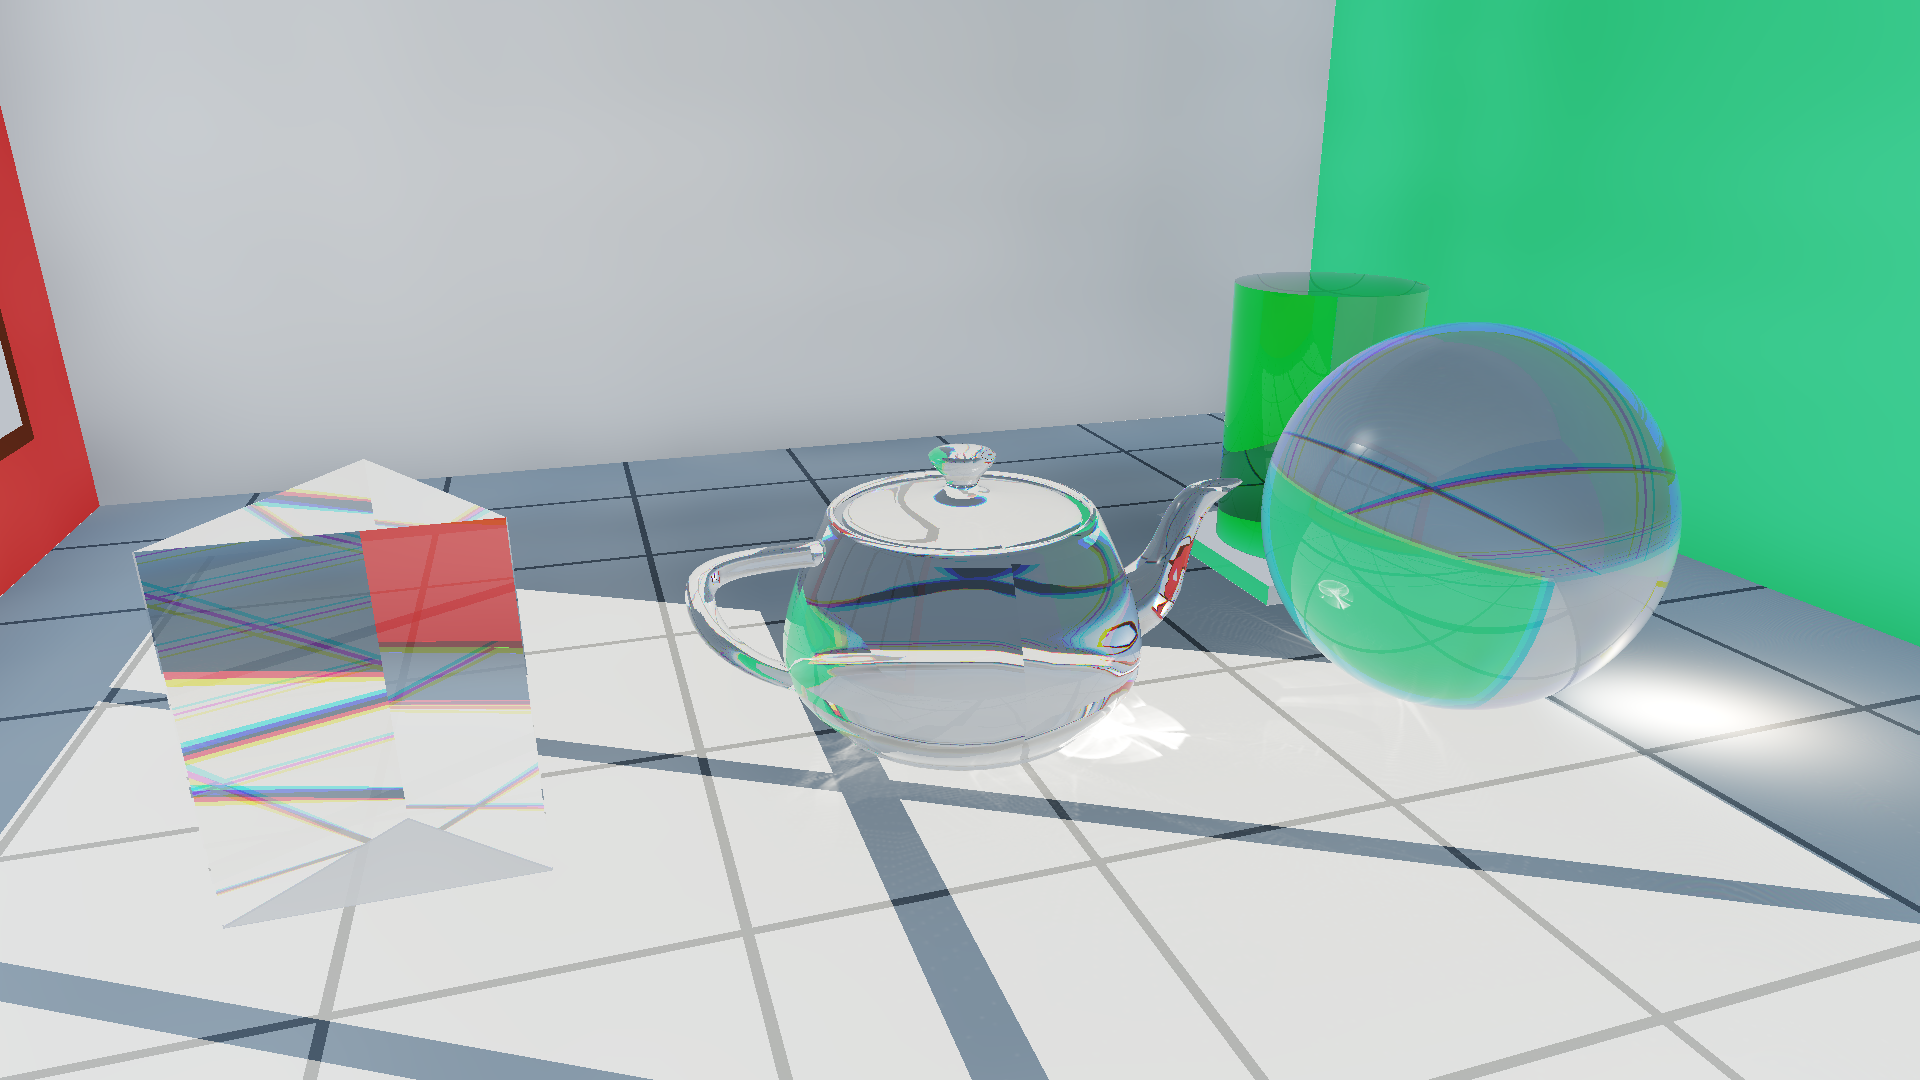
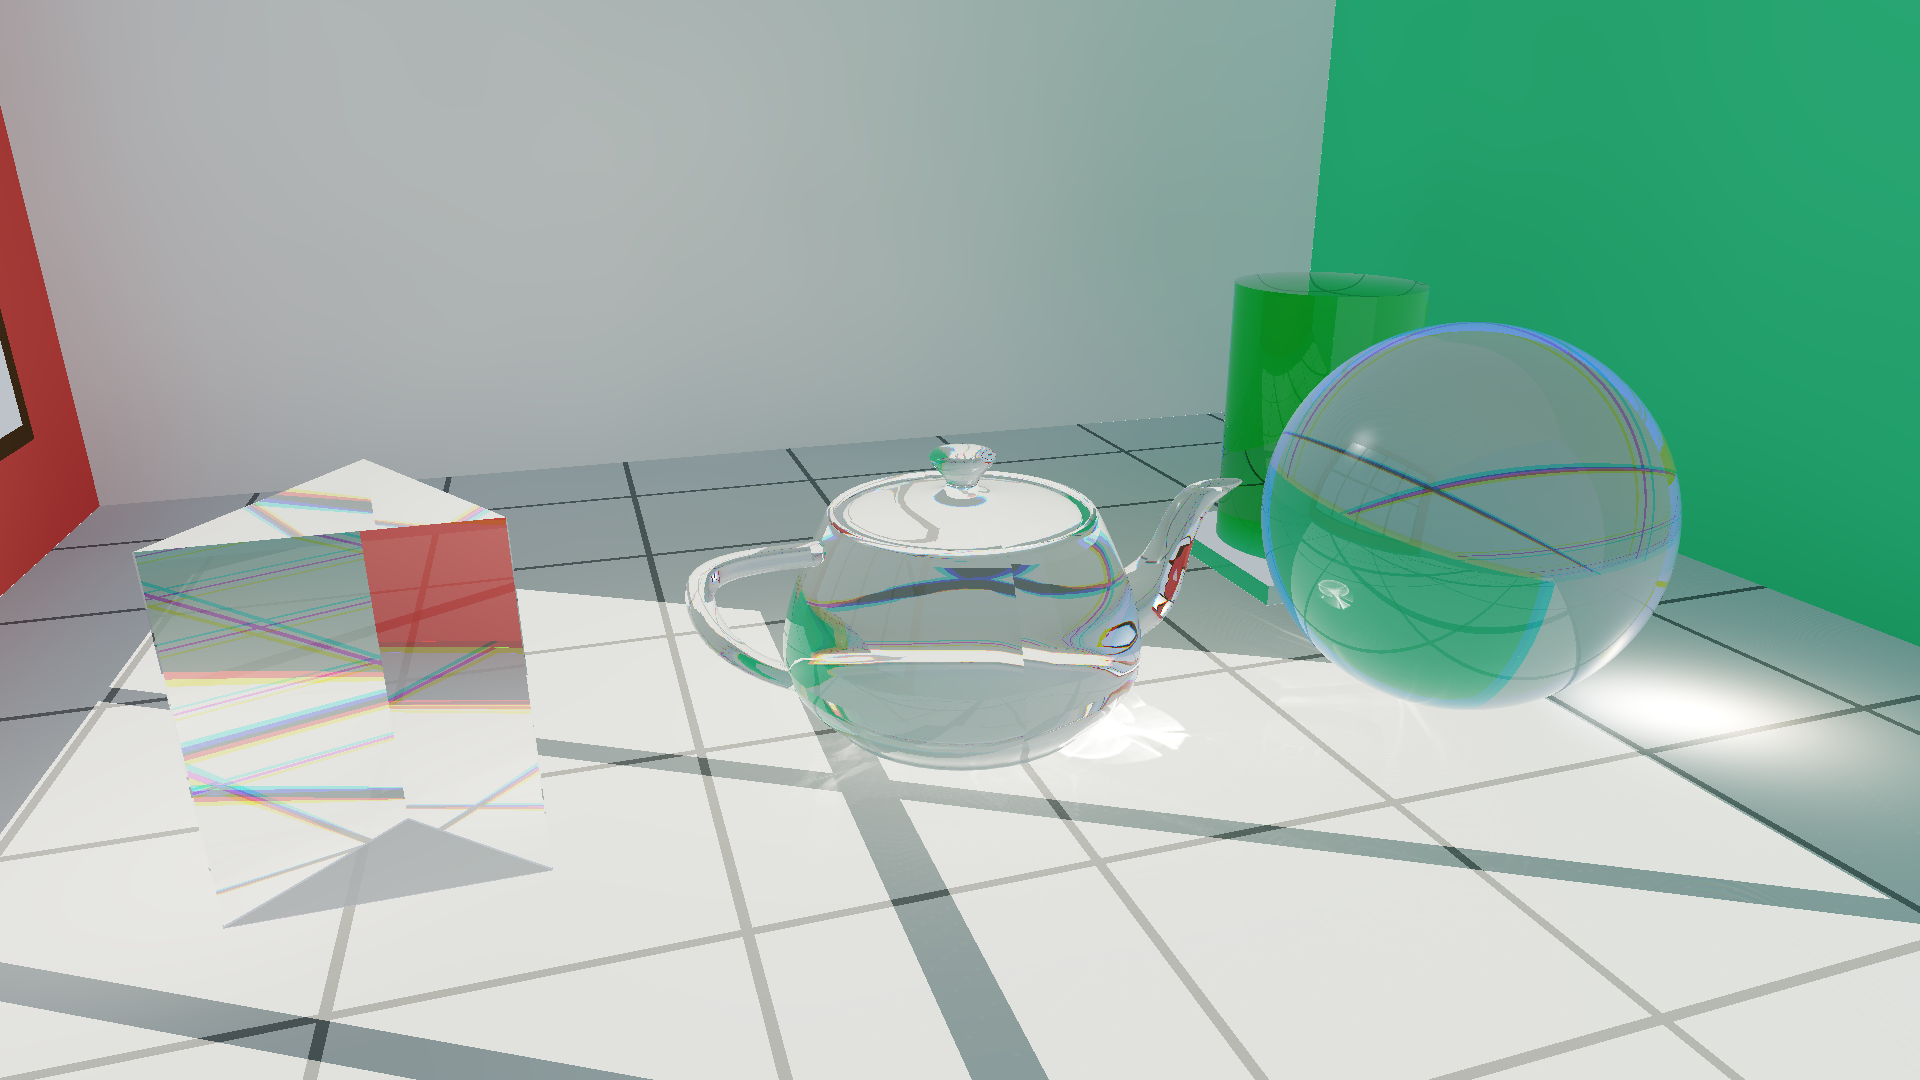
refactor: improve irradiance atlas sampling and normalize radiance calculation across render pipelines

diff --git a/Metal/src/main.mm b/Metal/src/main.mm
@@ -305,6 +305,7 @@ void renderFrame(
         id<MTLComputeCommandEncoder> rcEnc = [cmdBuffer computeCommandEncoder];
         [rcEnc setComputePipelineState:state.cascadePipeline];
         [rcEnc setTexture:state.irradianceAtlas atIndex:0];
+        [rcEnc setTexture:state.filteredIrradianceAtlas atIndex:1];
         [rcEnc setBuffer:uniformBuffer offset:0 atIndex:0];
         if (state.teapotNodeBuffer) [rcEnc setBuffer:state.teapotNodeBuffer offset:0 atIndex:1];
         if (state.teapotTriBuffer)  [rcEnc setBuffer:state.teapotTriBuffer offset:0 atIndex:2];
